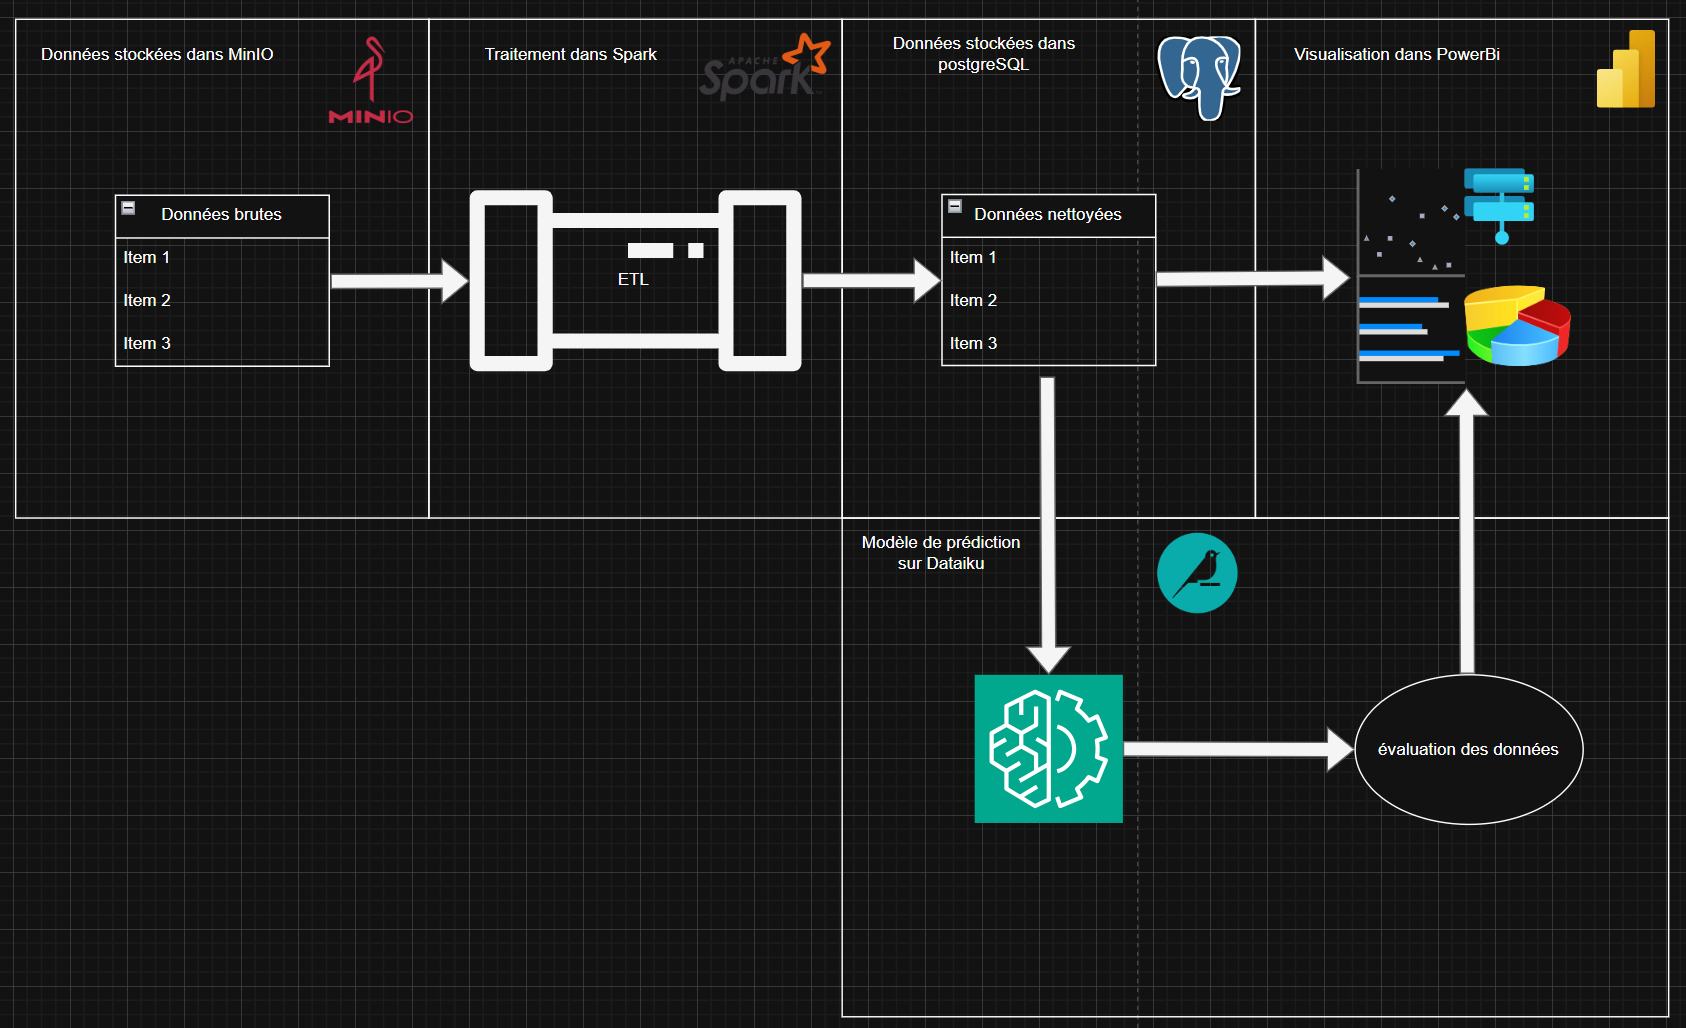
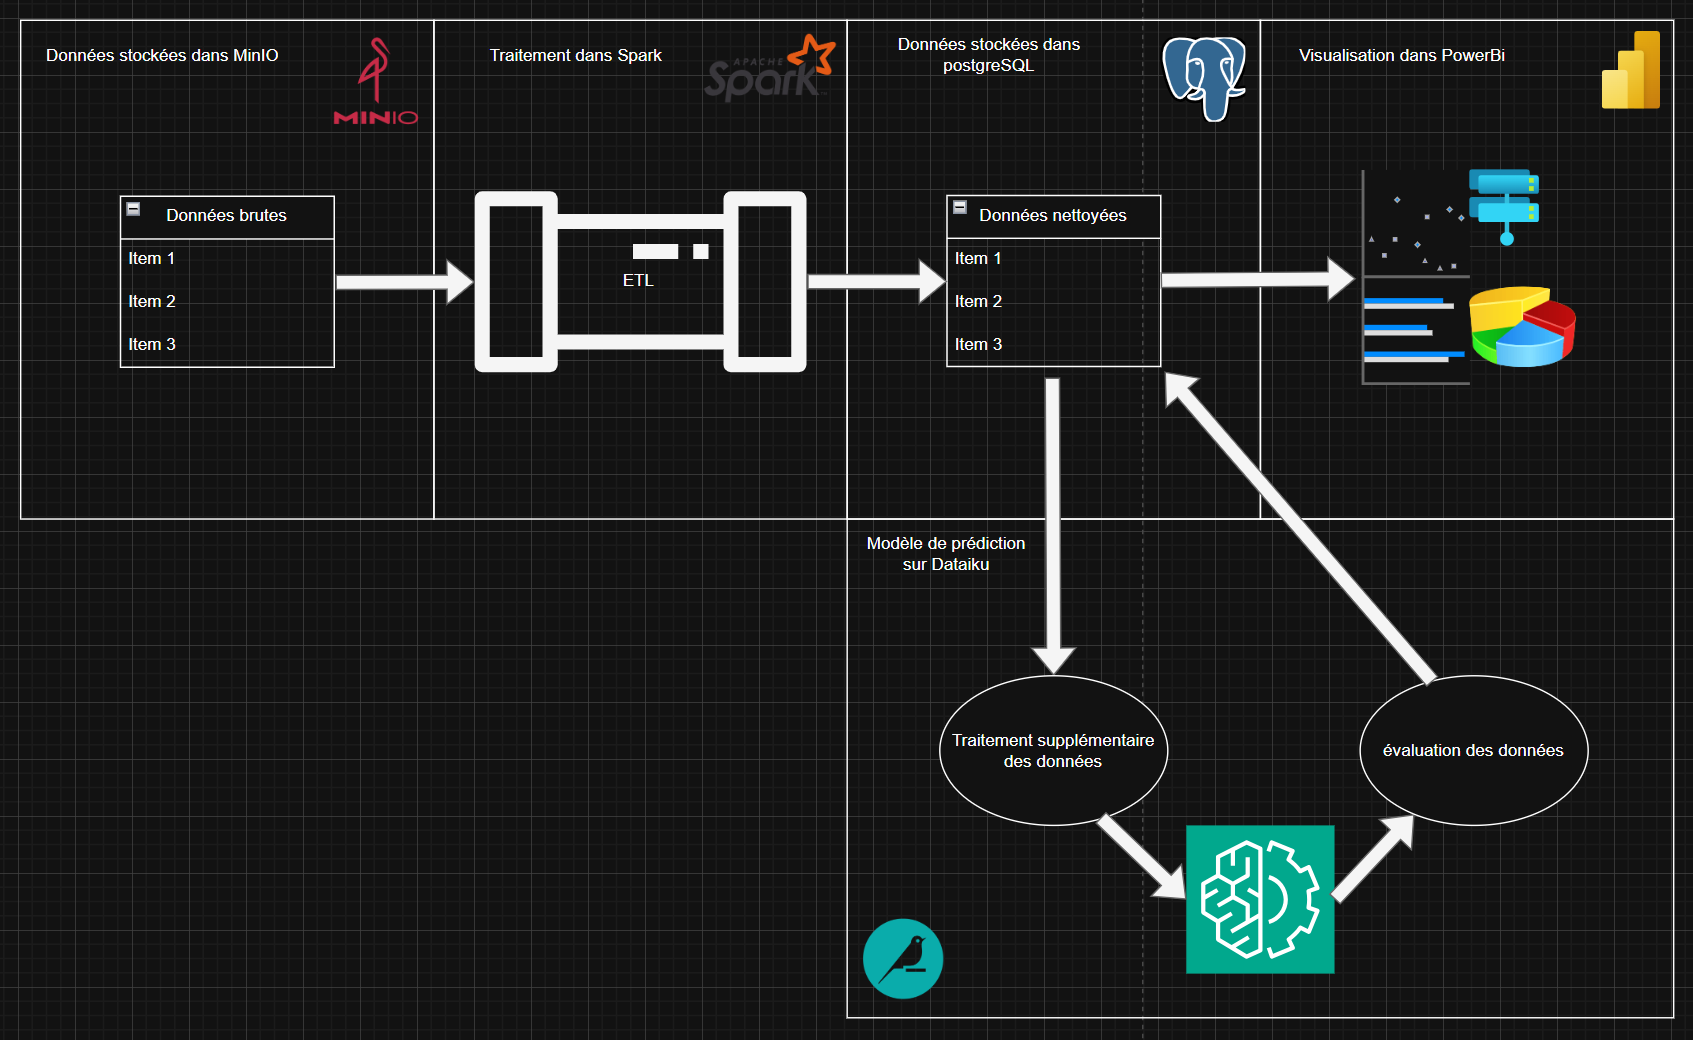
PSQL connect

diff --git a/scripts/connect-s3_nettoyage.py b/scripts/connect-s3_nettoyage.py
@@ -1,0 +1,65 @@
+from pyspark.sql import SparkSession
+from pyspark.sql.functions import regexp_extract, col, to_timestamp, unbase64, decode, expr
+
+# Configuration des accès MinIO
+s3_access_key = "SofpZm1prCGzWUZgOi0M"
+s3_secret_key = "sxG0ChkpmMvo3xMi9HW3ib2olkkfYJxKAsLmXNj7"
+s3_endpoint = "http://datalake:9000" # "minio" est le nom du service dans docker-compose
+
+spark = SparkSession.builder \
+    .appName("Ingestion_MinIO") \
+    .config("spark.jars.packages", "org.apache.hadoop:hadoop-aws:3.4.1") \
+    .config("spark.hadoop.fs.s3a.endpoint", s3_endpoint) \
+    .config("spark.hadoop.fs.s3a.access.key", s3_access_key) \
+    .config("spark.hadoop.fs.s3a.secret.key", s3_secret_key) \
+    .config("spark.hadoop.fs.s3a.path.style.access", "true") \
+    .config("spark.hadoop.fs.s3a.impl", "org.apache.hadoop.fs.s3a.S3AFileSystem") \
+    .getOrCreate()
+    
+# Connexion à PostgreSQL
+jdbc_url = "jdbc:postgresql://postgresdb:5432/BDOE831"
+db_properties = {
+    "user": "atelier",
+    "password": "superpassword",
+    "driver": "org.postgresql.Driver"
+}
+
+# 1. Chargement du fichier brut
+raw_df = spark.read.text("s3a://datalake/web-access-server-log/access.log")
+
+# 2. Définition du pattern Regex pour parser le format de log
+# Groupe 1: IP, Groupe 2: Date, Groupe 3: Méthode, Groupe 4: URL, Groupe 5: Status, Groupe 6: Taille, Groupe 7: User-Agent
+log_pattern = r'^(\S+) \S+ \S+ \[(.*?)\] "(.*?) (.*?) \S+" (\d+) (\d+) ".*?" "(.*?)"'
+
+extracted_df = raw_df.select(
+    regexp_extract('value', log_pattern, 1).alias('ip'),
+    regexp_extract('value', log_pattern, 2).alias('timestamp_raw'),
+    regexp_extract('value', log_pattern, 3).alias('method'),
+    regexp_extract('value', log_pattern, 4).alias('url'),
+    regexp_extract('value', log_pattern, 5).alias('status_code_str'),      
+    regexp_extract('value', log_pattern, 6).alias('content_size_str'), 
+    regexp_extract('value', log_pattern, 7).alias('user_agent')
+)
+
+cleaned_access_df = extracted_df.withColumn(
+    "status_code", expr("try_cast(status_code_str as int)")
+).withColumn(
+    "content_size", expr("try_cast(content_size_str as long)")
+).withColumn(
+    "timestamp", to_timestamp(col("timestamp_raw"), "dd/MMM/yyyy:HH:mm:ss Z")
+).filter(
+    col("status_code").isNotNull()
+).drop("status_code_str", "content_size_str", "timestamp_raw")
+
+cleaned_access_df.show(5)
+
+# Chargement direct des CSV
+df_hostname = spark.read.csv("s3a://datalake/web-access-server-log/client_hostname.csv", header=True, inferSchema=True)
+df_net_logs = spark.read.csv("s3a://datalake/intrusion-detection/Network_logs.csv", header=True, inferSchema=True)
+df_time_series = spark.read.csv("s3a://datalake/intrusion-detection/Time-Series_Network_logs.csv", header=True, inferSchema=True)
+
+# Envoi des tables vers PostgreSQL
+cleaned_access_df.write.jdbc(url=jdbc_url, table="access_logs_cleaned", mode="overwrite", properties=db_properties)
+df_hostname.write.jdbc(url=jdbc_url, table="client_hostnames", mode="overwrite", properties=db_properties)
+df_net_logs.write.jdbc(url=jdbc_url, table="network_logs", mode="overwrite", properties=db_properties)
+df_time_series.write.jdbc(url=jdbc_url, table="time_series_logs", mode="overwrite", properties=db_properties)

diff --git a/commands.md b/commands.md
@@ -1,11 +1,34 @@
 # Executer un container pyspark avec le script de connexion au S3
-
-```bash
-docker exec -it exam-sparkmaster-1 /opt/spark/bin/spark-submit --master spark://sparkmaster:7077 --packages org.apache.hadoop:hadoop-aws:3.3.4,com.amazonaws:aws-java-sdk-bundle:1.12.262,org.postgresql:postgresql:42.6.0 /tmp/scripts/connect-s3.py
-```
-```bash
-docker exec -it exam-sparkmaster-1 /opt/spark/bin/spark-submit --master spark://sparkmaster:7077 --conf "spark.driver.extraJavaOptions=-Divy.home=/tmp/.ivy2" --conf "spark.executor.extraJavaOptions=-Divy.home=/tmp/.ivy2" --packages org.apache.hadoop:hadoop-aws:3.4.2,com.amazonaws:aws-java-sdk-bundle:1.12.262,org.postgresql:postgresql:42.7.9 /tmp/scripts/connect-s3.py
-```
 ```bash
 docker exec -it exam-sparkmaster-1 /opt/spark/bin/spark-submit --master spark://sparkmaster:7077 --conf "spark.driver.extraJavaOptions=-Divy.home=/tmp/.ivy2" --conf "spark.executor.extraJavaOptions=-Divy.home=/tmp/.ivy2" --packages org.apache.hadoop:hadoop-aws:3.4.1,org.postgresql:postgresql:42.7.9 /tmp/scripts/connect-s3.py
+```
+
+# Connexion S3
+```python
+from pyspark.sql import SparkSession
+
+# Configuration des accès MinIO
+s3_access_key = "SofpZm1prCGzWUZgOi0M"
+s3_secret_key = "sxG0ChkpmMvo3xMi9HW3ib2olkkfYJxKAsLmXNj7"
+s3_endpoint = "http://datalake:9000" # "minio" est le nom du service dans docker-compose
+
+spark = SparkSession.builder \
+    .appName("Ingestion_MinIO") \
+    .config("spark.jars.packages", "org.apache.hadoop:hadoop-aws:3.4.1") \
+    .config("spark.hadoop.fs.s3a.endpoint", s3_endpoint) \
+    .config("spark.hadoop.fs.s3a.access.key", s3_access_key) \
+    .config("spark.hadoop.fs.s3a.secret.key", s3_secret_key) \
+    .config("spark.hadoop.fs.s3a.path.style.access", "true") \
+    .config("spark.hadoop.fs.s3a.impl", "org.apache.hadoop.fs.s3a.S3AFileSystem") \
+    .getOrCreate()
+    
+s3_bucket_path = "s3a://datalake/intrusion-detection/Network_logs.csv"
+# Read CSV data from S3 into a DataFrame
+df = spark.read.csv(s3_bucket_path, header=True, inferSchema=True)
+# Show data
+df.printSchema()
+```
+# Executer un container spark-submit pour se connecter au S3 traiter les données avec pyspark et les importer dans postgresql
+```bash
+docker exec -it exam-sparkmaster-1 /opt/spark/bin/spark-submit --master spark://sparkmaster:7077 --conf "spark.driver.extraJavaOptions=-Divy.home=/tmp/.ivy2" --conf "spark.executor.extraJavaOptions=-Divy.home=/tmp/.ivy2" --packages org.apache.hadoop:hadoop-aws:3.4.1,org.postgresql:postgresql:42.7.9 /tmp/scripts/connect-s3_nettoyage.py
 ```
